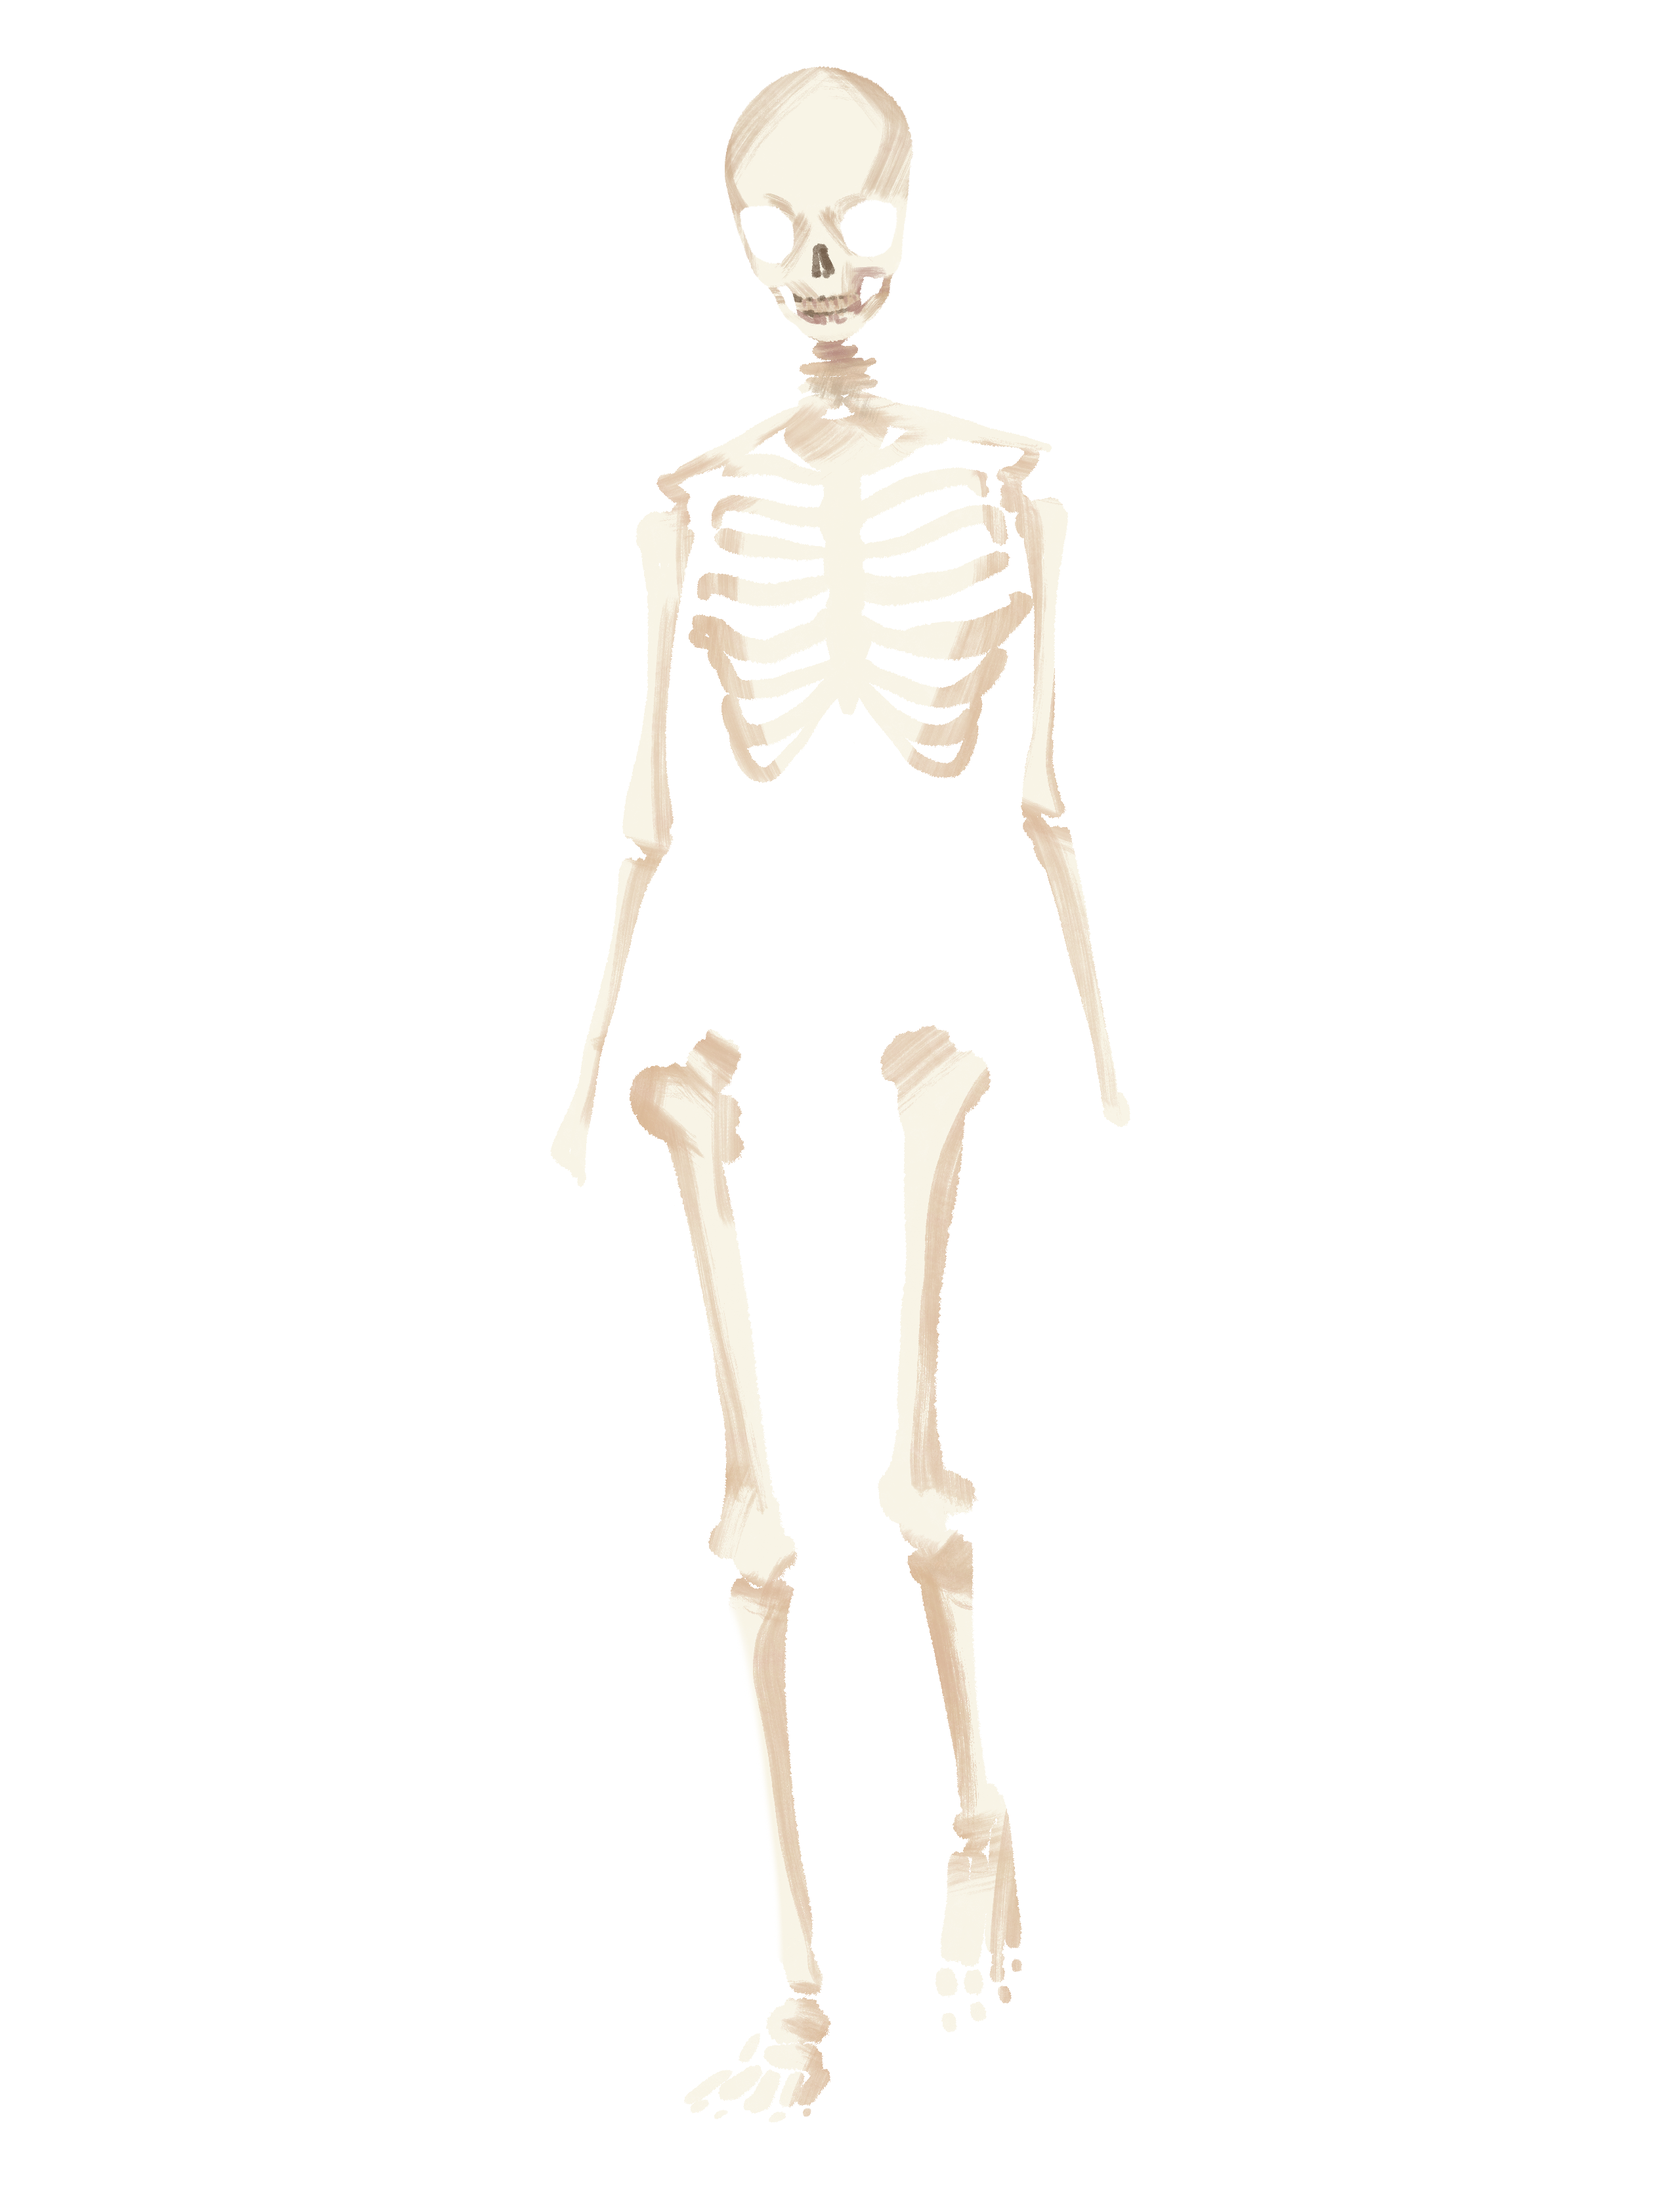
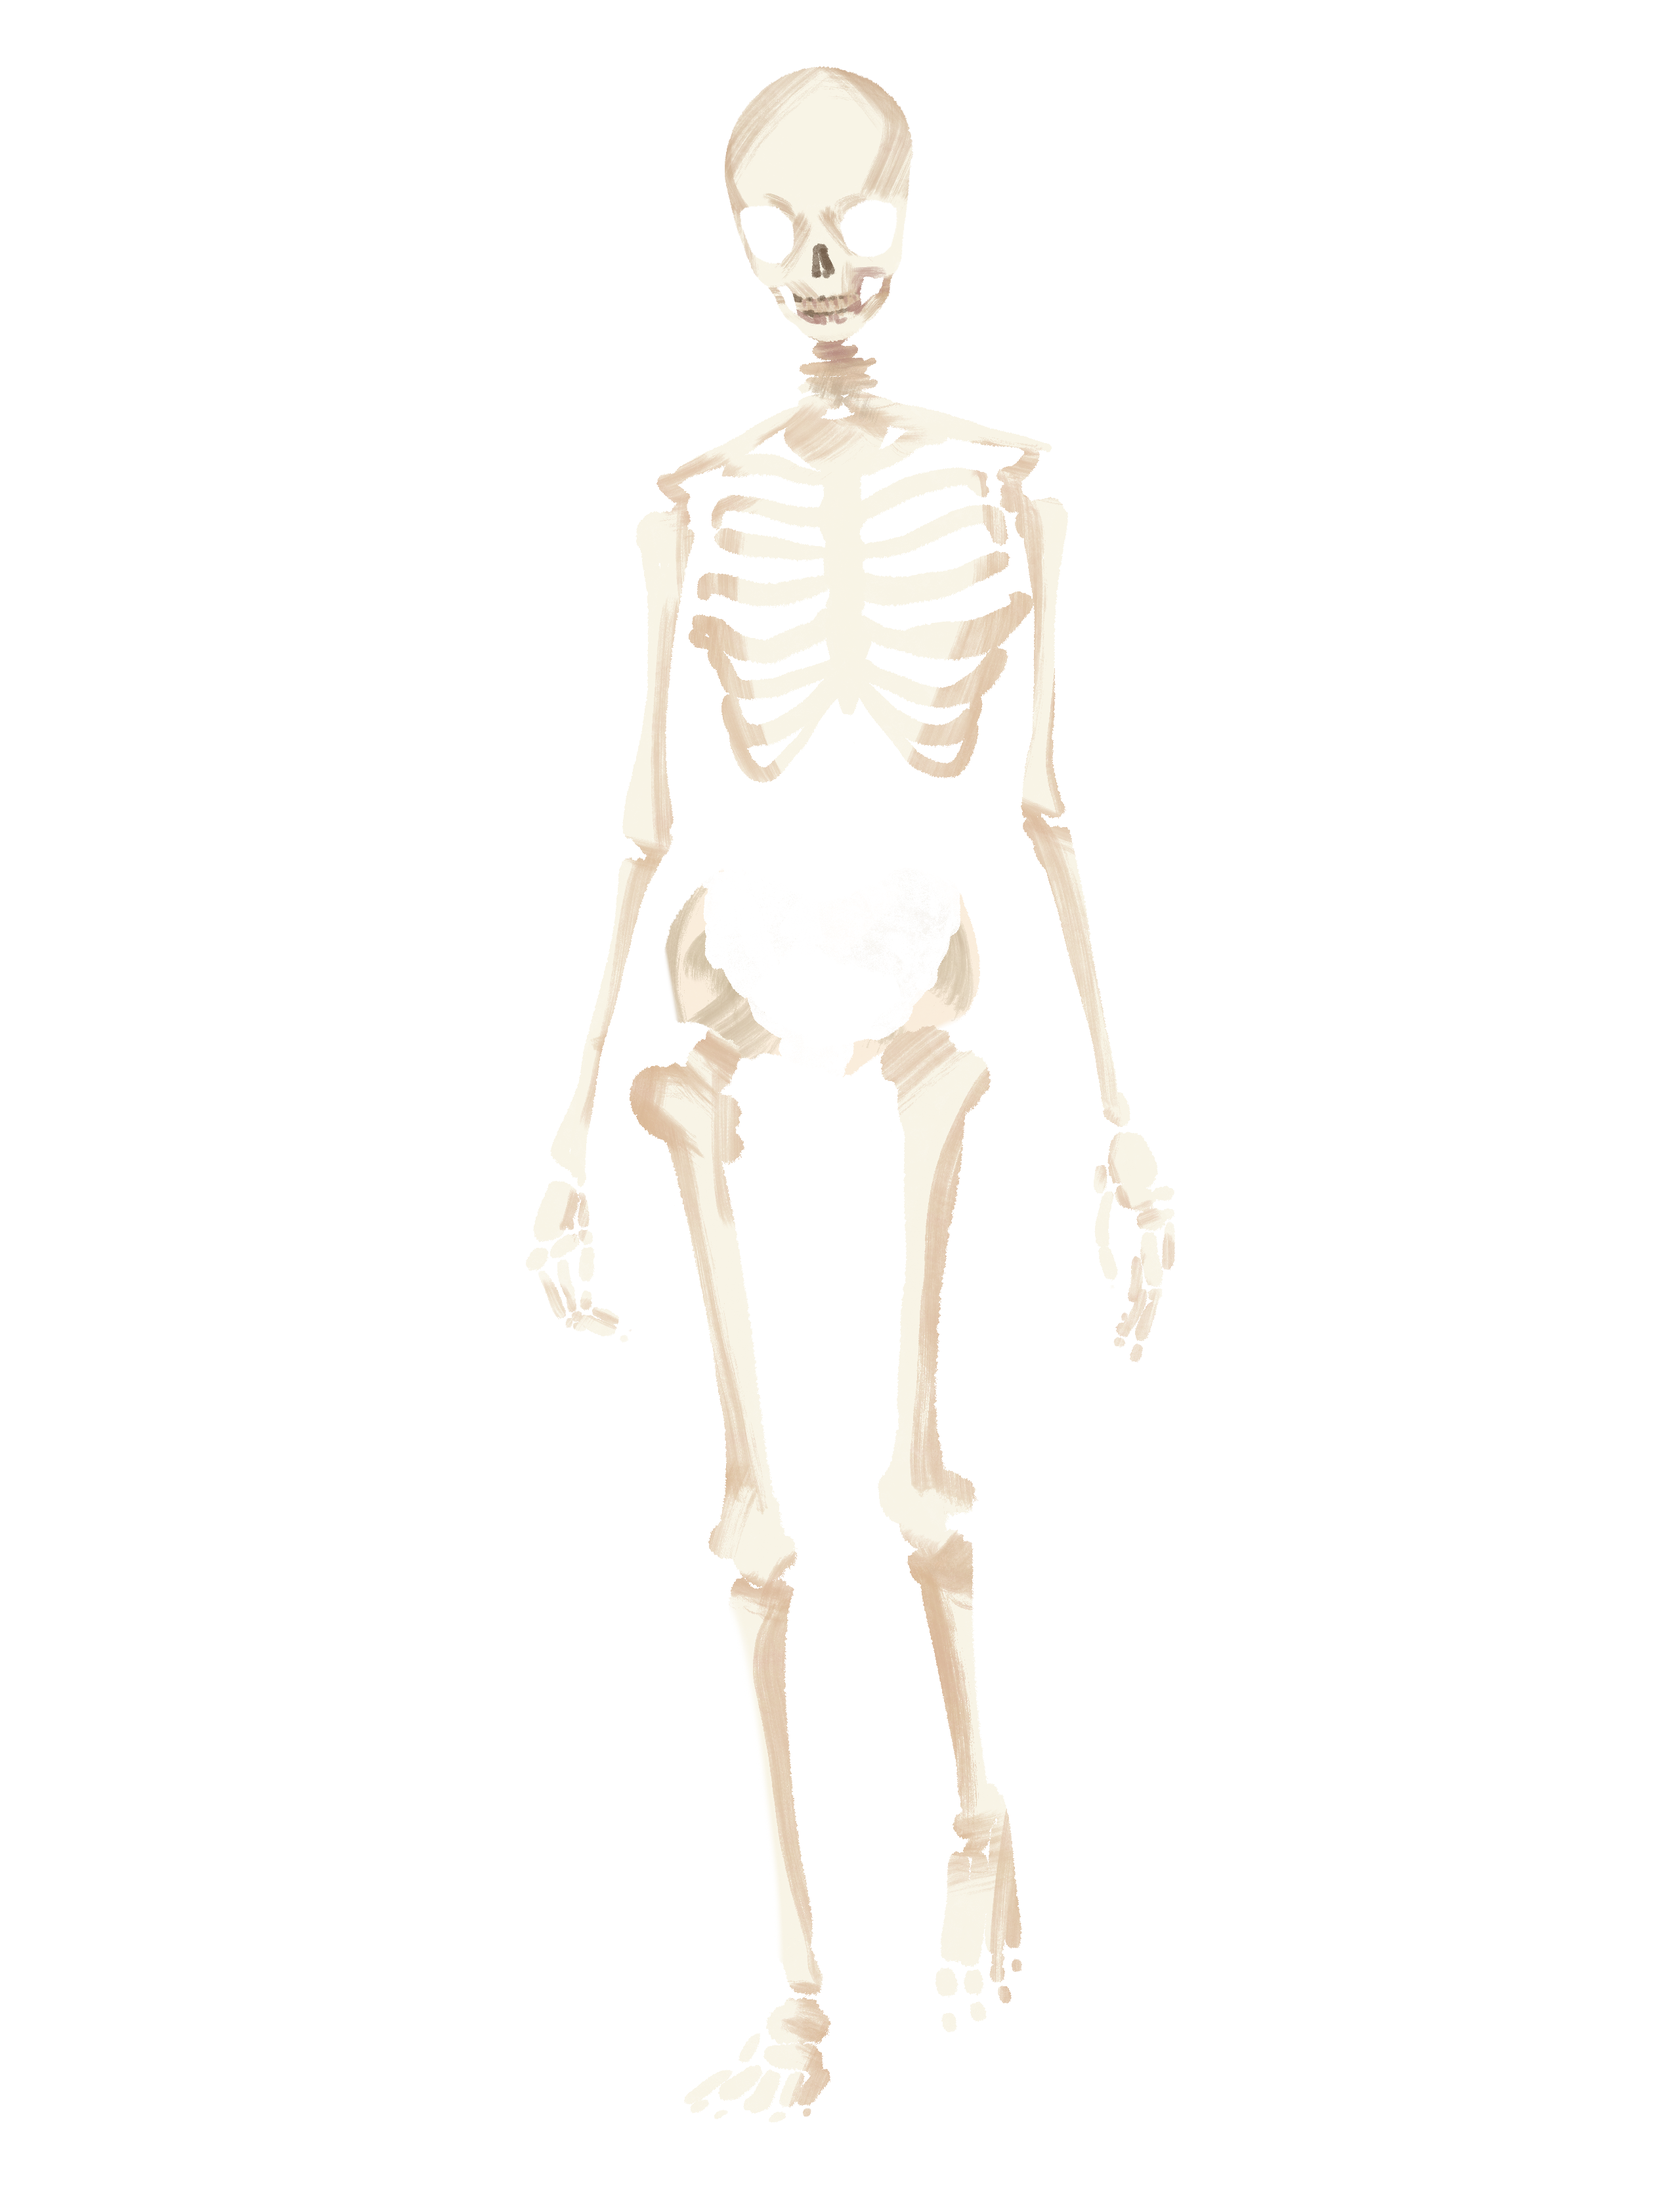
fixed title and separate pelvis

diff --git a/index.html b/index.html
@@ -2,7 +2,7 @@
 <html>
     <head>
         <meta charset="utf-8" />
-        <title>Gamedev Canvas Workshop - lesson 6: build the brick field</title>
+        <title>Dress Down Game</title>
         <style>* { padding: 0; margin: 0; } canvas { background: #eee; display: block; margin: 0 auto; }</style>
         <link rel="stylesheet" type="text/css" href="style.css"/>
     </head>
@@ -10,7 +10,6 @@
 
 
         <div id="container">
-            <div class="draggable"><img src="img/pelvis.PNG"></div>
             <div class="draggable"><img src="img/nervous.PNG"></div>
             <div class="draggable"><img src="img/organs.PNG"></div>
             <div class="draggable"><img src="img/bones.PNG"></div>
